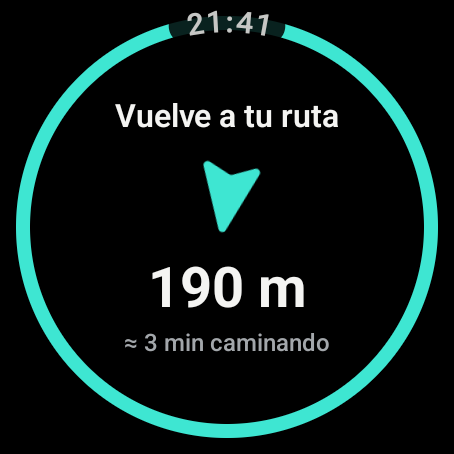
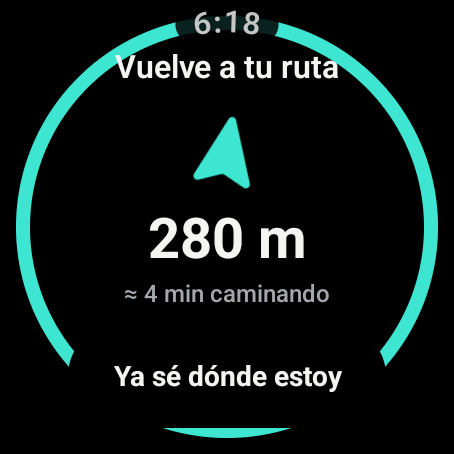
feat(assistance): agregar una salida a la pantalla de guía
La guía solo terminaba al volver a la ruta o llegar al destino: si el
usuario se desviaba a propósito y pedía guía, quedaba atrapado en la
pantalla. Ahora "Ya sé dónde estoy" (es/en/pt) termina la guía también
desde "Aviso enviado". Cuenta como "Estoy bien": LOST lo confirma con
"Entendido. LOST aprenderá de esto." y sube el umbral, así no vuelve a
preguntar de inmediato. Pruebas de la máquina de estados y del ViewModel.

diff --git a/app/src/main/java/com/lost/watch/feature/assistance/GuidingAlert.kt b/app/src/main/java/com/lost/watch/feature/assistance/GuidingAlert.kt
@@ -3,8 +3,10 @@ package com.lost.watch.feature.assistance
 import androidx.compose.runtime.Composable
 import androidx.compose.ui.res.pluralStringResource
 import androidx.compose.ui.res.stringResource
+import com.lost.designsystem.components.atoms.LostSecondaryButton
 import com.lost.designsystem.components.atoms.LostText
 import com.lost.designsystem.components.atoms.LostTextRole
+import com.lost.designsystem.components.atoms.SecondaryButtonStyle
 import com.lost.designsystem.components.molecules.DistanceContent
 import com.lost.designsystem.components.molecules.DistanceIndicator
 import com.lost.designsystem.components.organisms.ProbabilityArc
@@ -20,9 +22,12 @@ import kotlin.math.ceil
 private const val WALKING_METERS_PER_MINUTE = 84.0
 private const val GUIDE_ARC = 1f
 
-/** F.3 · Volver a tu ruta: a dónde (título), flecha con la distancia y el tiempo caminando. Nada repetido. */
+/**
+ * F.3 · Volver a tu ruta: a dónde (título), flecha con la distancia y el tiempo caminando, y una
+ * salida ("Ya sé dónde estoy") para no quedar atrapado en la guía si no vuelve a la ruta.
+ */
 @Composable
-fun GuidingAlert(state: AssistanceUiState.Guiding) {
+fun GuidingAlert(state: AssistanceUiState.Guiding, onEvent: (AssistanceUiEvent) -> Unit) {
     WatchScreenTemplate(ring = { ProbabilityArc(StatusTone.ON_ROUTE, GUIDE_ARC) }) {
         LostText(state.destinationName ?: stringResource(R.string.assist_back_to_route), role = LostTextRole.TITLE)
         val meters = state.distanceMeters ?: 0.0
@@ -35,11 +40,17 @@ fun GuidingAlert(state: AssistanceUiState.Guiding) {
                 arrowDescription = arrowDescription(state.bearingDegrees)
             )
         )
+        // Siempre hay una salida: si ya sabe dónde está, deja la guía (cuenta como "Estoy bien").
+        LostSecondaryButton(
+            stringResource(R.string.assist_end_guidance),
+            { onEvent(AssistanceUiEvent.EndGuidance) },
+            style = SecondaryButtonStyle.TEXT_ONLY
+        )
     }
 }
 
 @LostDevicePreviews
 @Composable
 private fun GuidingPreview() {
-    LostTheme { GuidingAlert(AssistanceUiState.Guiding(220.0, 45f, null)) }
+    LostTheme { GuidingAlert(AssistanceUiState.Guiding(220.0, 45f, null)) {} }
 }

diff --git a/domain/src/main/kotlin/com/lost/domain/assistance/AssistanceStateMachine.kt b/domain/src/main/kotlin/com/lost/domain/assistance/AssistanceStateMachine.kt
@@ -7,6 +7,7 @@ import com.lost.domain.assistance.AssistanceEvent.DestinationReached
 import com.lost.domain.assistance.AssistanceEvent.DetectionUpdated
 import com.lost.domain.assistance.AssistanceEvent.ResponseTimedOut
 import com.lost.domain.assistance.AssistanceEvent.RouteRecovered
+import com.lost.domain.assistance.AssistanceEvent.UserEndedGuidance
 import com.lost.domain.assistance.AssistanceEvent.UserIsFine
 import com.lost.domain.assistance.AssistanceEvent.UserIsGoingElsewhere
 import com.lost.domain.assistance.AssistanceEvent.UserRequestedGuidance
@@ -61,7 +62,15 @@ class AssistanceStateMachine(private val policy: AssistanceResponsePolicy = Assi
         else -> state
     }
 
-    private fun fromGuiding(event: AssistanceEvent): AssistanceState = if (event == RouteRecovered) Calm else Guiding
+    /**
+     * La guía termina al recuperar la ruta o cuando el usuario dice "Ya sé dónde estoy". Eso cuenta
+     * como "Estoy bien" (LOST aprende y pregunta menos), así no vuelve a preguntar de inmediato.
+     */
+    private fun fromGuiding(event: AssistanceEvent): AssistanceState = when (event) {
+        RouteRecovered -> Calm
+        UserEndedGuidance -> Acknowledged(UserFeedback.IM_FINE)
+        else -> Guiding
+    }
 
     private fun fromCountdown(state: SharingCountdown, event: AssistanceEvent): AssistanceState = when (event) {
         CountdownTicked -> if (state.secondsLeft <= 1) LocationShared else SharingCountdown(state.secondsLeft - 1)
@@ -72,6 +81,7 @@ class AssistanceStateMachine(private val policy: AssistanceResponsePolicy = Assi
     private fun fromLocationShared(event: AssistanceEvent): AssistanceState = when (event) {
         UserRequestedGuidance -> Guiding
         RouteRecovered -> Calm
+        UserEndedGuidance -> Acknowledged(UserFeedback.IM_FINE)
         else -> LocationShared
     }
 

diff --git a/domain/src/test/kotlin/com/lost/domain/assistance/AssistanceStateMachineTest.kt b/domain/src/test/kotlin/com/lost/domain/assistance/AssistanceStateMachineTest.kt
@@ -7,6 +7,7 @@ import com.lost.domain.assistance.AssistanceEvent.DestinationReached
 import com.lost.domain.assistance.AssistanceEvent.DetectionUpdated
 import com.lost.domain.assistance.AssistanceEvent.ResponseTimedOut
 import com.lost.domain.assistance.AssistanceEvent.RouteRecovered
+import com.lost.domain.assistance.AssistanceEvent.UserEndedGuidance
 import com.lost.domain.assistance.AssistanceEvent.UserIsFine
 import com.lost.domain.assistance.AssistanceEvent.UserIsGoingElsewhere
 import com.lost.domain.assistance.AssistanceEvent.UserRequestedGuidance
@@ -129,6 +130,12 @@ class AssistanceStateMachineTest {
         @Test
         fun `al recuperar la ruta vuelve a la calma`() {
             assertEquals(Calm, machine.next(Guiding, RouteRecovered))
+        }
+
+        @Test
+        fun `ya se donde estoy termina la guia y cuenta como estoy bien`() {
+            assertEquals(Acknowledged(UserFeedback.IM_FINE), machine.next(Guiding, UserEndedGuidance))
+            assertEquals(Acknowledged(UserFeedback.IM_FINE), machine.next(LocationShared, UserEndedGuidance))
         }
 
         @Test

diff --git a/app/src/main/java/com/lost/watch/feature/assistance/AssistanceOverlay.kt b/app/src/main/java/com/lost/watch/feature/assistance/AssistanceOverlay.kt
@@ -35,7 +35,7 @@ private fun AssistanceLayer(state: AssistanceUiState, onEvent: (AssistanceUiEven
         AssistanceUiState.Hidden -> Unit
         is AssistanceUiState.SoftAsk -> SoftAskAlert(onEvent)
         is AssistanceUiState.AskForHelp -> AskForHelpAlert(state, onEvent)
-        is AssistanceUiState.Guiding -> GuidingAlert(state)
+        is AssistanceUiState.Guiding -> GuidingAlert(state, onEvent)
         is AssistanceUiState.SharingCountdown -> SharingCountdownAlert(state, onEvent)
         is AssistanceUiState.LocationShared -> LocationSharedAlert(state, onEvent)
         is AssistanceUiState.Acknowledged -> AcknowledgedAlert(state)

diff --git a/app/src/test/java/com/lost/watch/feature/assistance/AssistanceViewModelTest.kt b/app/src/test/java/com/lost/watch/feature/assistance/AssistanceViewModelTest.kt
@@ -50,4 +50,12 @@ class AssistanceViewModelTest {
         viewModel.onEvent(AssistanceUiEvent.ImFine)
         assertEquals(AssistanceState.Acknowledged(UserFeedback.IM_FINE), session.snapshot.value.assistance)
     }
+
+    @Test
+    fun `ya se donde estoy sale de la guia`() {
+        askForHelp()
+        viewModel.onEvent(AssistanceUiEvent.GuideMe)
+        viewModel.onEvent(AssistanceUiEvent.EndGuidance)
+        assertEquals(AssistanceState.Acknowledged(UserFeedback.IM_FINE), session.snapshot.value.assistance)
+    }
 }

diff --git a/app/src/main/java/com/lost/watch/feature/assistance/AssistanceViewModel.kt b/app/src/main/java/com/lost/watch/feature/assistance/AssistanceViewModel.kt
@@ -69,6 +69,8 @@ class AssistanceViewModel @Inject constructor(
 
             AssistanceUiEvent.ImFine -> session.dispatch(AssistanceEvent.UserIsFine)
 
+            AssistanceUiEvent.EndGuidance -> session.dispatch(AssistanceEvent.UserEndedGuidance)
+
             AssistanceUiEvent.CancelSharing -> session.dispatch(AssistanceEvent.CountdownCancelled)
 
             AssistanceUiEvent.DismissBackOnRoute -> isBackOnRoute.value = false

diff --git a/domain/src/main/kotlin/com/lost/domain/assistance/AssistanceEvent.kt b/domain/src/main/kotlin/com/lost/domain/assistance/AssistanceEvent.kt
@@ -12,6 +12,9 @@ sealed interface AssistanceEvent {
 
     data object UserIsGoingElsewhere : AssistanceEvent
 
+    /** "Ya sé dónde estoy": el usuario deja la guía sin haber vuelto a la ruta. */
+    data object UserEndedGuidance : AssistanceEvent
+
     /** Pasaron 30 s sin respuesta a la pregunta. */
     data class ResponseTimedOut(val hasAuthorizedContact: Boolean) : AssistanceEvent
 

diff --git a/app/src/main/java/com/lost/watch/feature/assistance/AssistanceUiEvent.kt b/app/src/main/java/com/lost/watch/feature/assistance/AssistanceUiEvent.kt
@@ -12,5 +12,8 @@ sealed interface AssistanceUiEvent {
 
     data object KeepGuiding : AssistanceUiEvent
 
+    /** "Ya sé dónde estoy": salir de la guía sin haber vuelto a la ruta. */
+    data object EndGuidance : AssistanceUiEvent
+
     data object DismissBackOnRoute : AssistanceUiEvent
 }

diff --git a/docs/diseno/simplificacion.md b/docs/diseno/simplificacion.md
@@ -39,7 +39,7 @@ Se siguió el orden de los PDF del curso: **contenido → jerarquía → estruct
 | **Explicación** | Encabezado, frase, 2 iconos sueltos | Iconos sin texto | — | "¿Por qué te pregunto?" · frase humana | La frase ya lo dice. |
 | **Pregunta suave** | Arco, icono, pregunta, 2 botones (el segundo cortado por el borde) | — | — | "¿Vas a otro lado hoy?" · Sí, voy a otro lado / Guíame | Ahora caben las dos respuestas. |
 | **¿Necesitas ayuda?** | Arco, icono grande, contexto de 2 líneas, pregunta, 2 botones, frase de explicación repetida | La frase repetida | La explicación completa, en Monitoreo | "Te saliste de tu ruta." · ¿Necesitas ayuda? · Sí, guíame / Estoy bien | "Estoy bien" se cortaba; ahora todo cabe sin desplazar. |
-| **Guía** | Arco, título, flecha, distancia, minutos, "hacia tu ruta de siempre" | La línea final (repetía el título) | — | "Vuelve a tu ruta" · flecha (con brújula) + distancia · minutos | Nada repetido. |
+| **Guía** | Arco, título, flecha, distancia, minutos, "hacia tu ruta de siempre" | La línea final (repetía el título) | — | "Vuelve a tu ruta" · flecha (con brújula) + distancia · minutos · **Ya sé dónde estoy** | Nada repetido, y siempre hay una salida: antes la guía no se podía cerrar hasta volver a la ruta. |
 | **Cuenta regresiva / aviso enviado / Entendido** | — | — | — | Sin cambios | Ya tenían una sola idea. |
 | **Aprendiendo tu rutina** | Anillo, icono, "4 de 5", "Hemos visto este recorrido 4 veces", "Una más y…", botón | "Hemos visto… 4 veces" (repetía "4 de 5") | — | "4 de 5" · "Una más y la guardamos" · Guardar | Nada repetido. |
 | **Detalle de rutina** | Mapa, título, horario, hasta 3 botones | "Renombrar" mientras no está guardada | — | **Mapa real** · "Casa → U" · horario · Guardar o Renombrar / Borrar | Como mucho 1 primaria + 1 secundaria. |

diff --git a/docs/AVANCES.md b/docs/AVANCES.md
@@ -384,6 +384,8 @@ políticas de batería.
 - **Renderizador propio en vez de Google Maps u osmdroid** (ADR 004): sin llave, sin gestos que choquen y estilo desde tokens.
 - **Mapa real encendido por defecto**, con el interruptor a la vista en Ajustes y la verdad en Privacidad.
 - **Interruptor único** para todo lo que usa internet (mapa, búsqueda y ruta a pie): apagado, nada sale del reloj.
+- **La guía siempre tiene salida**: "Ya sé dónde estoy" termina la guía aunque no haya vuelto a la ruta (antes
+  la pantalla no se podía cerrar). Cuenta como "Estoy bien": LOST aprende y no vuelve a preguntar de inmediato.
 - **Segunda respuesta solo con texto** en las alertas (el mockup la dibuja como píldora gris; en el reloj redondo chocaba con la curva).
 - **Atribución bajo el chip** en Monitoreo: abajo el círculo es demasiado estrecho para que quepa en una línea.
 - **GPX deterministas**: el hospital se elige como el más cercano a `CENTER` entre los resultados de Nominatim.

diff --git a/docs/ia/arquitectura-informacion.md b/docs/ia/arquitectura-informacion.md
@@ -35,6 +35,7 @@ flowchart TD
         ASK --> COUNT[Aviso a Laura en 5 s] --> SHARED[Laura ya sabe dónde estás]
         ASK --> ACK[Entendido. LOST aprenderá]
         GUIDING --> BACK[Ya estás en tu ruta]
+        GUIDING -- Ya sé dónde estoy --> ACK
     end
 ```
 
